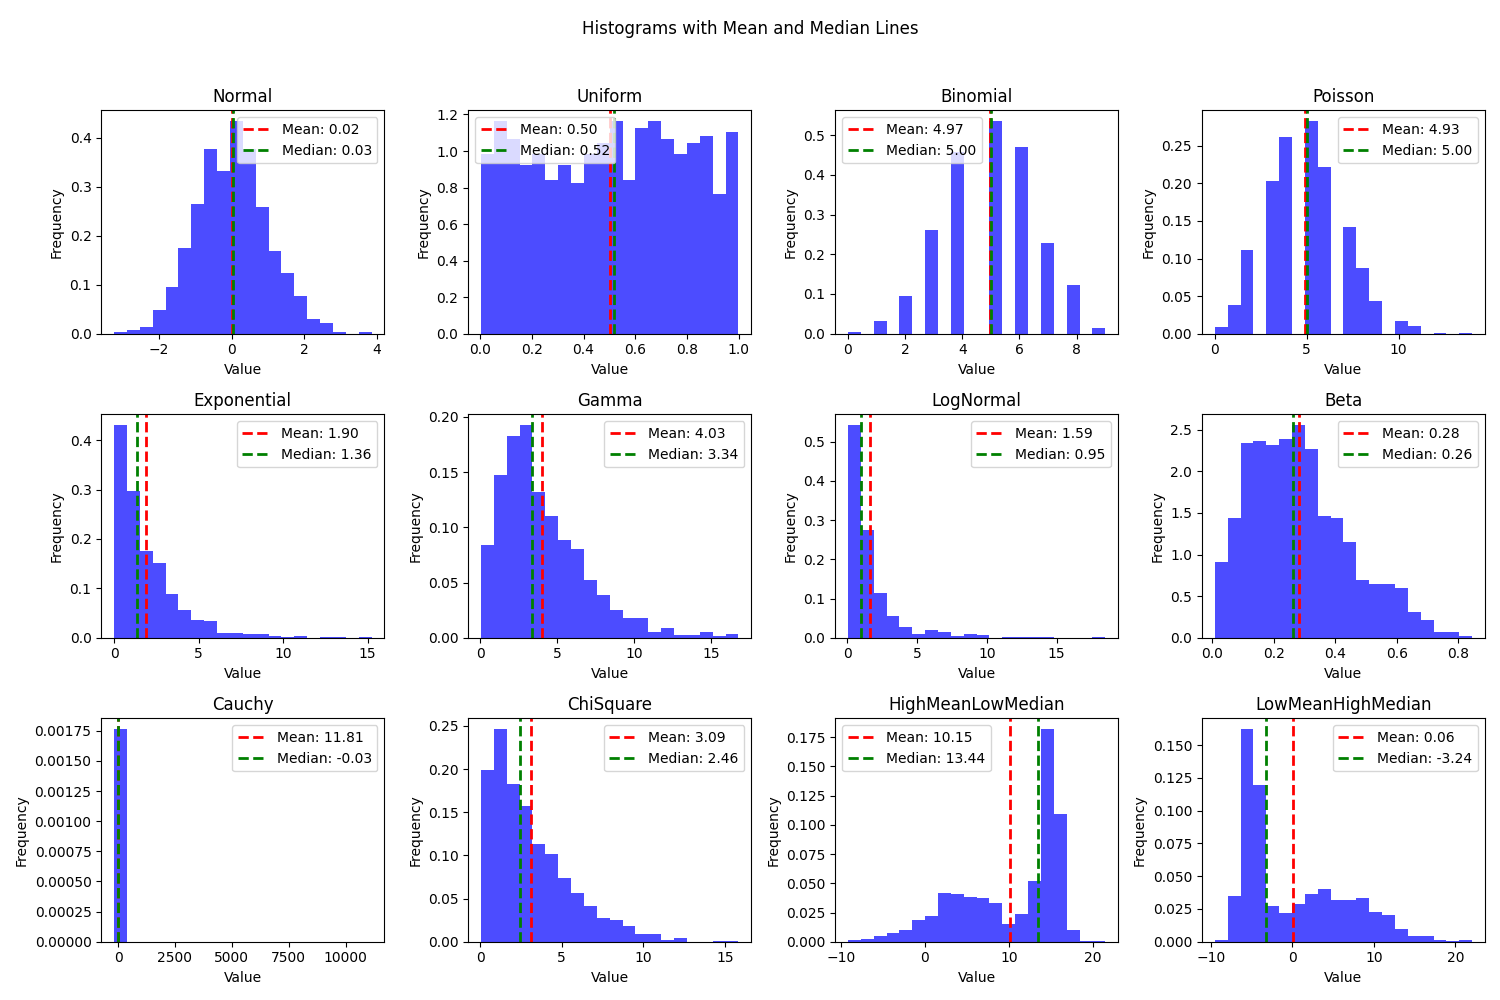
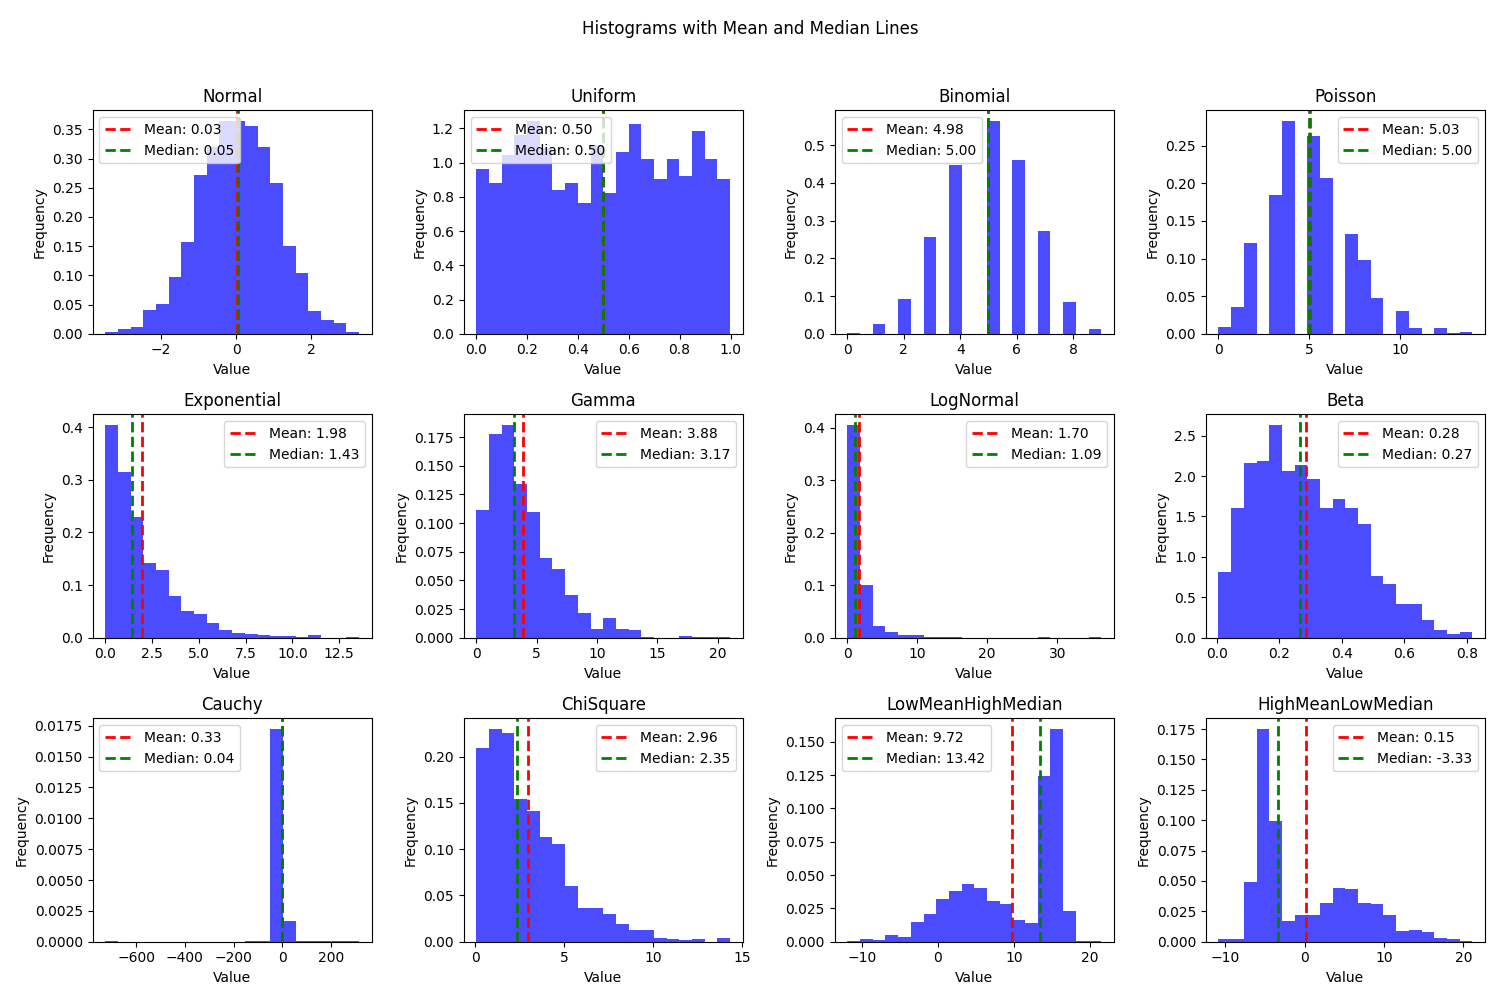
Statistical Analysis of Website Versions
Contents:

    Fake Dataset Creation:
        A fake dataset was generated with order amounts for the 'Old' and 'New' versions of the website. The order amounts were simulated to have different distributions for learning purposes.

    Two-Sample T-Test:
        A two-sample t-test was performed to compare the mean order amounts of the two versions. The null hypothesis (H0) is that there is no significant difference, while the alternative hypothesis (H1) is that there is a significant difference.

Usage:

    The Python code can be used as a template for similar analyses of website version comparisons.
    Adjust the parameters, such as the significance level and dataset characteristics, to fit specific use cases.

Dependencies:

    The analysis relies on the numpy, pandas, seaborn, and matplotlib libraries for data manipulation, statistical analysis, and data visualization.

Notes:

    This is a simplified example for educational purposes and does not reflect real-world data.

diff --git a/Python_Statistics/python_files/Two_Sample_T-Tests.py b/Python_Statistics/python_files/Two_Sample_T-Tests.py
@@ -1,0 +1,114 @@
+# Two Sample T-Tests
+# Association between a quantitative variable and a binary categorical variable
+# Used to determine if there is a significant difference between the means of two independent groups.
+# Assess whether the observed differences are likely due to chance or if they represent a true difference in the populations from which the samples were drawn
+
+import numpy as np
+import pandas as pd
+import amazing_functions as af
+
+# I currently work for Amazon Fresh - Amazon's grocery story
+
+# Let's create a simplified fake dataset for orders from two different versions of the Amazon Fresh website.
+# We'll assume the key metric of interest is the order amount. For learning purposes, we'll make the distributions
+# of order amounts different for the two versions.
+
+# Steps
+# 1. Formulate Hypotheses:
+# Null Hypothesis (H0): There is no significant difference between the mean order amounts of the two groups.
+# Alternative Hypothesis (H1): There is a significant difference between the means order amounts of the two groups.
+
+# 2.Collect Data:
+# Obtain a sample from each of the two groups under consideration. These groups should be independent of each other.
+# Set a random seed for reproducibility
+np.random.seed(2300)
+
+# Assume these are random samples of all Amazon Fresh customers
+# Generate fake data for the old version
+old_version_orders = np.random.normal(loc=50, scale=20, size=200)
+# Generate fake data for the new version with a higher mean
+new_version_orders = np.random.normal(loc=70, scale=25, size=200)
+
+# Combine the data into a DataFrame
+data = pd.DataFrame({
+    'Version': ['Old'] * 200 + ['New'] * 200,
+    'OrderAmount': np.concatenate([old_version_orders, new_version_orders])
+})
+
+# Display the first few rows of the dataset
+# print(data.head())
+
+# Group by 'Version' and calculate the mean order amount for each version
+means_by_version = data.groupby('Version')['OrderAmount'].mean()
+
+# Display the mean order amounts for each version
+print(means_by_version)
+
+# 3. Calculate the T-statistic:
+# Use the formula for the t-statistic, which involves the difference between the sample means divided by the standard error of the difference.
+# Or, We can use the scipy.stats module in Python to perform a two-sample t-test with the generated dataset.
+
+import scipy.stats
+
+# Separate the data into two groups
+# Use boolean indexing to create two separate arrays of order amounts for the 'Old' and 'New' versions.
+old_version_data = data[data['Version'] == 'Old']['OrderAmount']
+new_version_data = data[data['Version'] == 'New']['OrderAmount']
+
+# Perform a two-sample t-test
+# Use the ttest_ind function from scipy.stats to perform the two-sample t-test
+t_statistic, p_value = scipy.stats.ttest_ind(old_version_data, new_version_data)
+
+# The t-statistic indicates the size of the difference in order amount relative to the variability in the data.
+# The p-value assesses the evidence against a null hypothesis. A small p-value (typically less than 0.05) suggests that you can reject the null hypothesis in favor of the alternative hypothesis.
+# Display the results
+print(f'T-statistic: {t_statistic}')
+print(f'P-value: {p_value}')
+
+# In this case, the p-value is much smaller than 0.05, so we confidently reject the null hypothesis that the order amounts are the same for the two versions of the website.
+# There is a signficant difference between the mean order amounts of the two groups
+
+# Set the significance level
+alpha = 0.05
+
+# Check the p-value and draw a conclusion
+if p_value < alpha:
+    print(f'The p-value ({p_value:.4f}) is less than the significance level ({alpha}), so we reject the null hypothesis.')
+    print('There is a statistically significant difference in mean order amounts between the old and new versions.')
+else:
+    print(f'The p-value ({p_value:.4f}) is greater than or equal to the significance level ({alpha}).')
+    print('We fail to reject the null hypothesis. There is no statistically significant difference in mean order amounts.')
+
+
+import seaborn as sns
+import matplotlib.pyplot as plt
+
+# Set the style for better visualization
+sns.set(style="whitegrid")
+
+# Create overlapping histograms using seaborn
+plt.figure(figsize=(10, 6))
+ax = sns.histplot(data, x='OrderAmount', hue='Version', element="step", stat="density", common_norm=False, kde=True)
+
+# Add text annotations for means and p-value
+old_mean = old_version_data.mean()
+new_mean = new_version_data.mean()
+p_value_annotation = f'p-value: {p_value:.4f}'
+
+ax.text(old_mean, 0.02, f'Old Mean: {old_mean:.2f}', verticalalignment='bottom', horizontalalignment='right', color='blue', fontsize=10)
+ax.text(new_mean, 0.02, f'New Mean: {new_mean:.2f}', verticalalignment='bottom', horizontalalignment='left', color='orange', fontsize=10)
+ax.text(0.5, 0.1, p_value_annotation, horizontalalignment='center', verticalalignment='center', transform=ax.transAxes, color='red', fontsize=12)
+
+# Add a context explanation for the p-value
+ax.text(0.5, 0.05, 'A small p-value suggests a significant difference\nin mean order amounts between versions.', horizontalalignment='center', verticalalignment='center', transform=ax.transAxes, color='black', fontsize=10)
+
+# Add labels and a title
+plt.xlabel('Order Amount')
+plt.ylabel('Density')
+plt.title('Overlapping Histograms of Order Amounts for Old and New Versions of Amazon Fresh Website (Fake Data)')
+
+# Save the plot to a file in a different directory using amazing_functions
+af.back_one_enter_new('Python_Generated_Images', 'overlapping_histograms_difference_btw_groups.png')
+
+# Show the plot
+plt.show()

diff --git a/Python_Statistics/python_files/central_tendency.py b/Python_Statistics/python_files/central_tendency.py
@@ -10,7 +10,7 @@ import os
 import amazing_functions as af
 
 # Set a seed for reproducibility
-np.random.seed(42)
+np.random.seed(3800)
 
 # Number of samples for each distribution
 num_samples = 1000
@@ -46,9 +46,9 @@ data = {
     'Beta': beta_samples,
     'Cauchy': cauchy_samples,
     'ChiSquare': chi_square_samples,
-    'HighMeanLowMedian': np.concatenate([np.random.normal(loc=15, scale=1, size=num_samples//2),
+    'LowMeanHighMedian': np.concatenate([np.random.normal(loc=15, scale=1, size=num_samples//2),
                                          np.random.normal(loc=5, scale=5, size=num_samples//2)]),  # Distribution with a high mean and low median
-    'LowMeanHighMedian': np.concatenate([np.random.normal(loc=-5, scale=1, size=num_samples//2),
+    'HighMeanLowMedian': np.concatenate([np.random.normal(loc=-5, scale=1, size=num_samples//2),
                                          np.random.normal(loc=5, scale=5, size=num_samples//2)]),  # Distribution with a low mean and high median
 }
 

diff --git a/Python_Statistics/python_files/spread.py b/Python_Statistics/python_files/spread.py
@@ -145,6 +145,12 @@ plt.savefig(output_path)
 # Show the plot
 plt.show()
 
+# Lets create boxplots of each distribution
+# The box of a boxplot visualizes the median, first quartile, and third quartile of a dataset.
+# The length of the box in a boxplot visualizes the interquartile range.
+# The whiskers extend from the box 1.5 times the size of the interquartile range.
+# Outliers are points that fall outside of the whiskers.
+# Boxplots are especially useful for comparing the spread of multiple columns. In this case, we compare the spread of each distribution
 
 output_filename = 'Boxplots_of_distributions.png'
 output_path = os.path.join(output_directory, output_filename)

diff --git a/Python_Statistics/python_files/test_file_to_print_function_output.py b/Python_Statistics/python_files/test_file_to_print_function_output.py
@@ -1,0 +1,6 @@
+import os
+
+print(os.path.dirname(os.path.abspath(__file__)))
+print(os.path.abspath(__file__))
+current_directory = os.path.dirname(os.path.abspath(__file__))
+print(os.path.join(current_directory, '..', 'Python_Generated_Images'))

diff --git a/Python_Statistics/python_files/IQR_Inpatient_Length_of_Stay.py b/Python_Statistics/python_files/IQR_Inpatient_Length_of_Stay.py
@@ -10,6 +10,8 @@ import numpy as np
 import matplotlib.pyplot as plt
 from scipy.stats import gamma
 import os
+import amazing_functions as af
+
 
 # Set seed for reproducibility
 np.random.seed(333)
